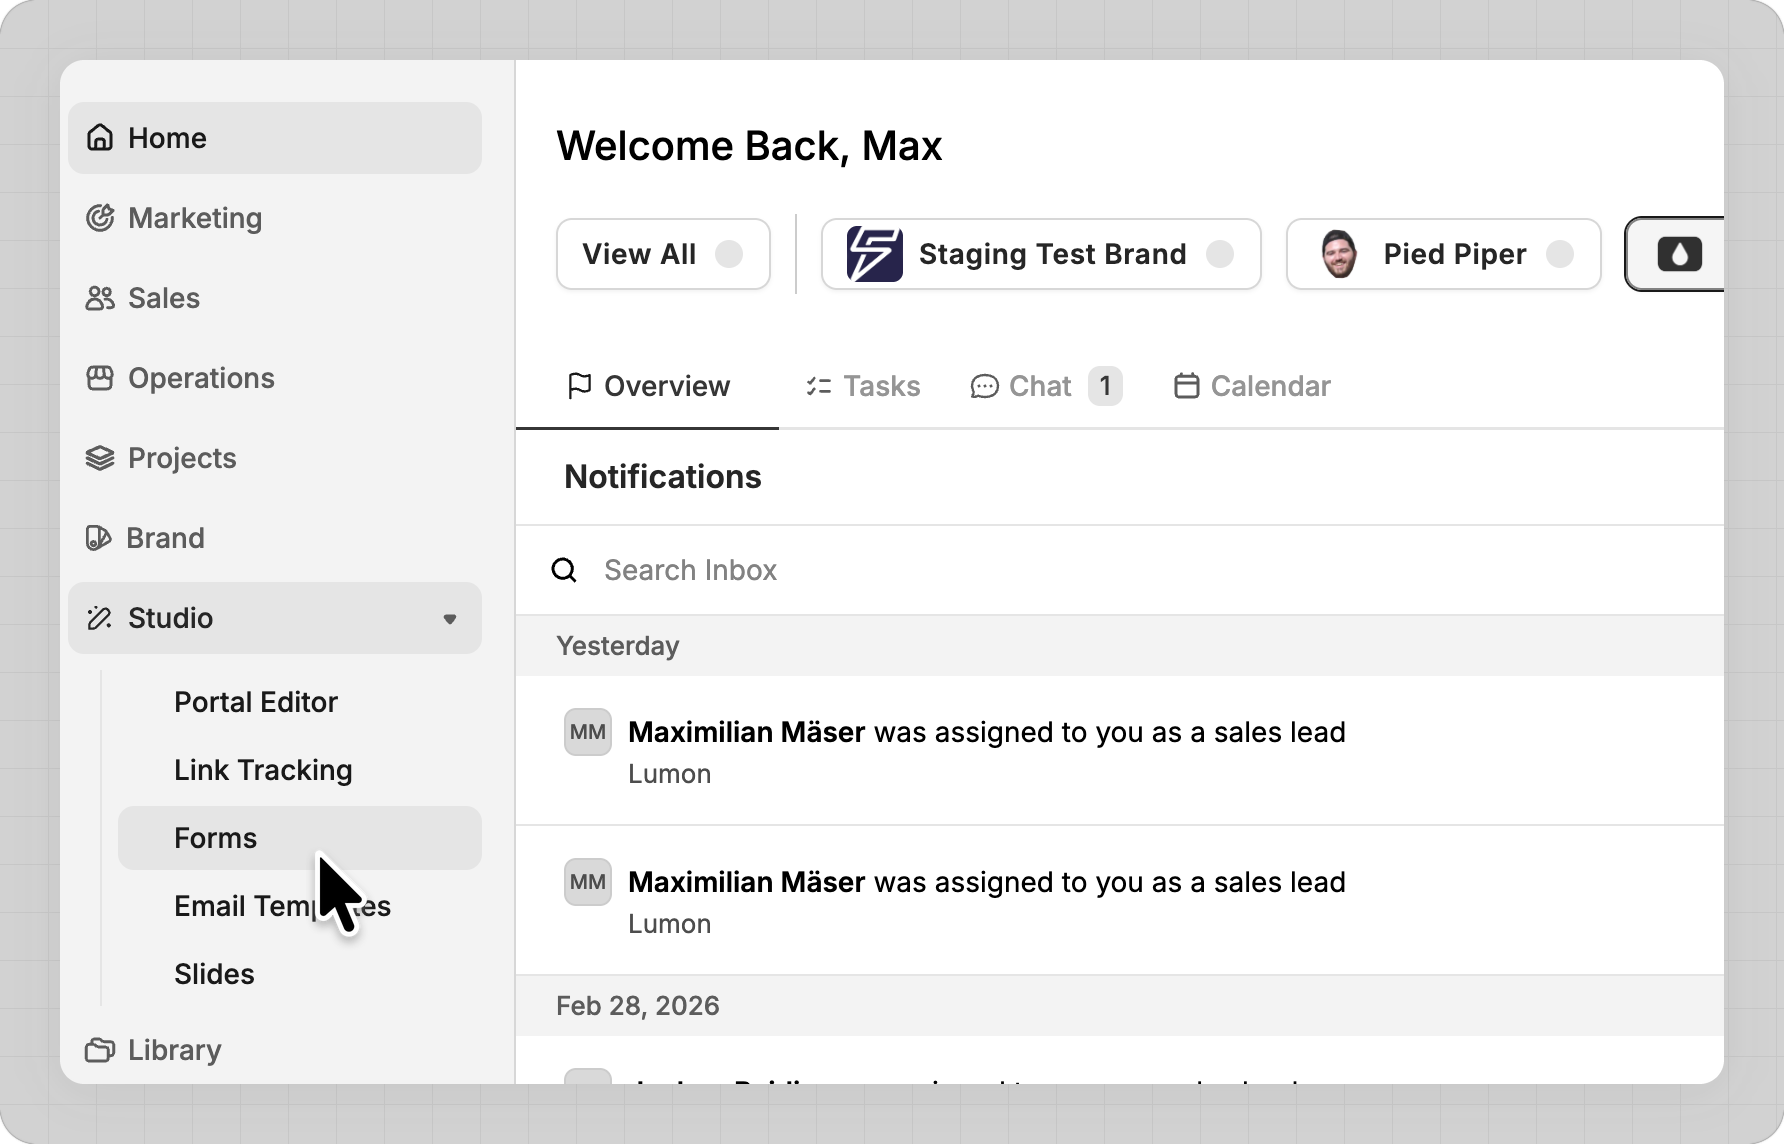
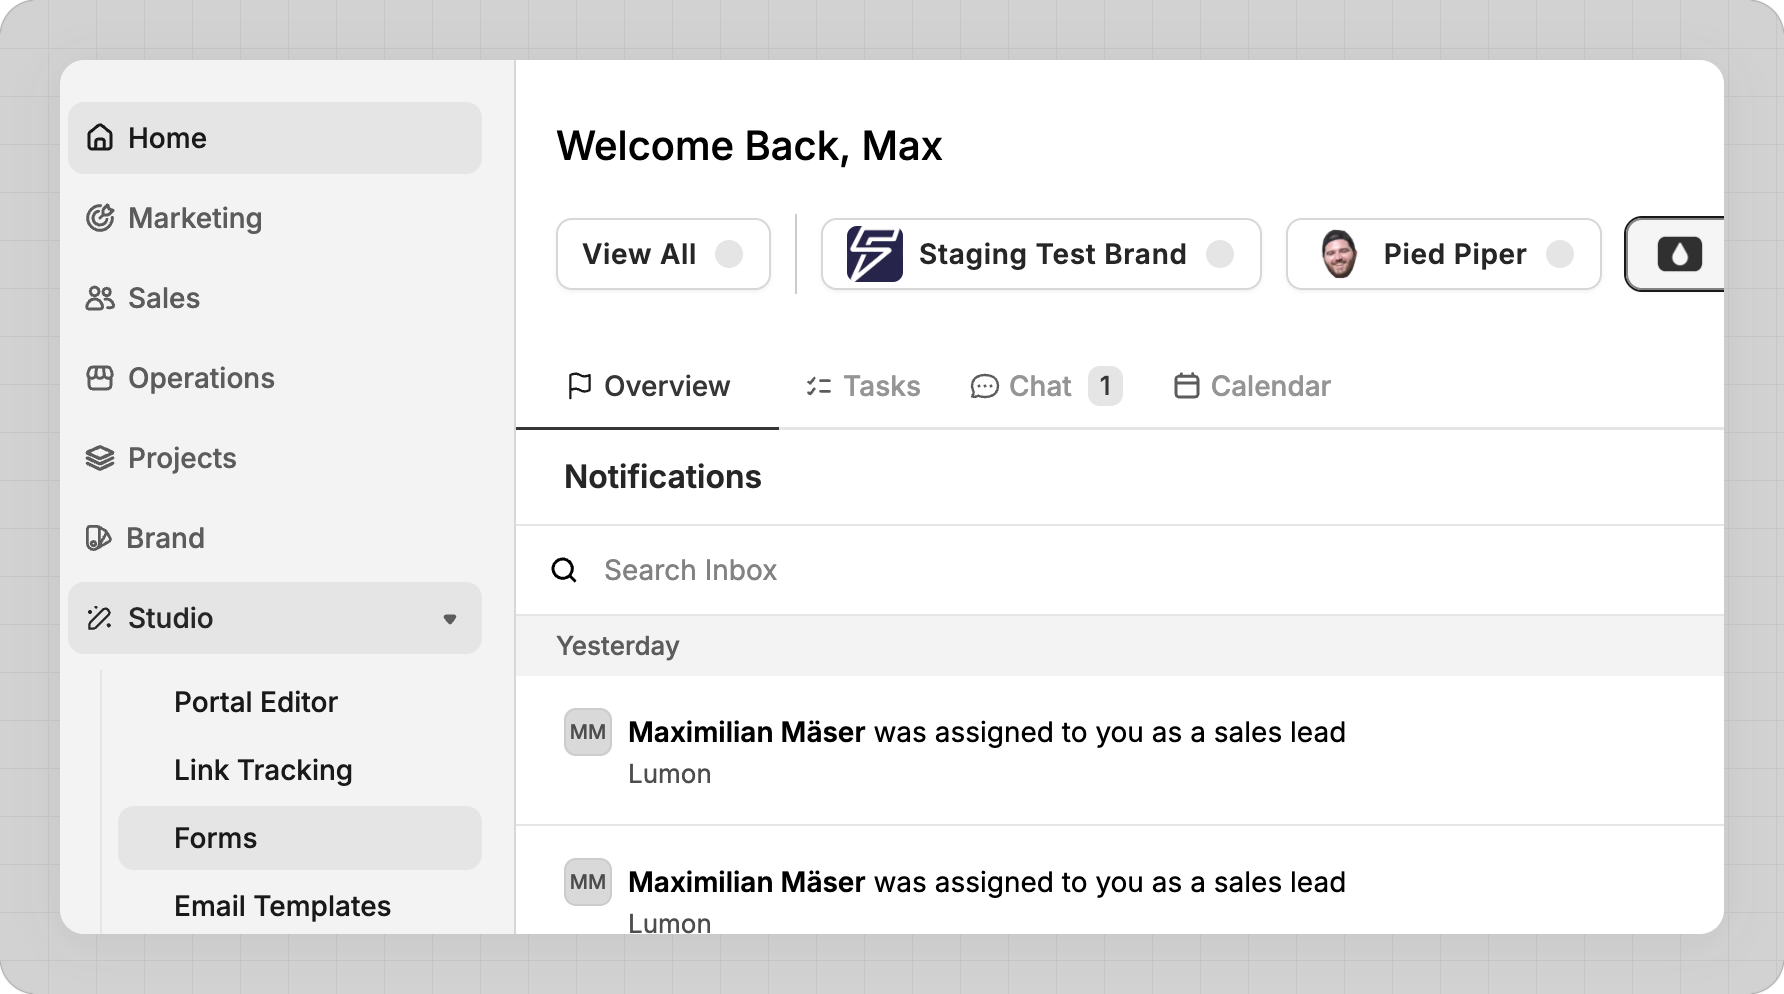
Sync all height-enforced images and new article exports
- All images resized to under 1000px tall
- New exports: Auto and Manual v5, Assign Leads v2, Build a Form v2, Edit Portal v2
- Updated image refs to 2026-03-15 recaptures where applicable

diff --git a/how-to-edit-your-portal/How to Edit Your Portal v2.md b/how-to-edit-your-portal/How to Edit Your Portal v2.md
@@ -1,0 +1,65 @@
+The portal editor lets you build and customize the applicant-facing experience - the pages and steps your leads see after signing up. You control the layout, content, and visual design from a single editor.
+
+### Opening the Portal Editor
+
+Navigate to **Portals → Editor** from the sidebar. The editor opens in a full-screen view with three tabs at the top: **Edit**, **Theme**, and **Style**.
+
+![Studio sidebar with Portals Editor selected](https://raw.githubusercontent.com/maxmaeser/helpdesk-screenshots/master/how-to-edit-your-portal/portal-nav-sidebar-2026-03-13.png)
+### Working with Sections and Steps
+
+Your portal is organized into **sections** (collapsible groups) containing **steps** (individual actions an applicant completes). Each step has a type that determines what the applicant does.
+
+![Portal editor full view with sections and steps](https://raw.githubusercontent.com/maxmaeser/helpdesk-screenshots/master/how-to-edit-your-portal/portal-editor-overview-2026-03-13.png)
+**Available step types:**
+
+- **Video**: Embed a video for the applicant to watch
+- **Form**: Present a form to collect information
+- **Slides**: Display a slide deck or presentation
+- **Call**: Schedule a call through the booking system
+- **Sign**: Send a document for electronic signature
+- **Visit Link**: Direct the applicant to an external URL
+- **Upload**: Request a file upload from the applicant
+
+To add a step, click **Add Step** at the bottom of a section. Select the step type, fill in the title and description, then configure the action-specific fields.
+
+![Add Step panel with step type dropdown](https://raw.githubusercontent.com/maxmaeser/helpdesk-screenshots/master/how-to-edit-your-portal/portal-add-step-2026-03-15.png)
+### Reordering Steps
+
+Drag and drop steps to reorder them within a section. You can also drag steps between sections to move them to a different group.
+
+### Hiding Steps from Applicants
+
+Each step has a **Hide For Applicants** toggle in its visibility settings. Turn this on to keep a step hidden while you work on it. The step remains in the editor but does not appear on the live portal.
+
+![Step settings panel with Hide For Applicants toggle](https://raw.githubusercontent.com/maxmaeser/helpdesk-screenshots/master/how-to-edit-your-portal/portal-hide-toggle-2026-03-13.png)
+### Customizing Typography
+
+Switch to the **Theme** tab to adjust text styling. You can configure the font family and size for four text levels:
+
+- **Heading 1**: Primary headings
+- **Heading 2**: Secondary headings
+- **Heading 3**: Tertiary headings
+- **Body**: Standard paragraph text
+
+Each level offers three size options (Small, Medium, Large) and a selection of font families including Inter, Roboto, Open Sans, Lato, Montserrat, Poppins, Playfair Display, and Raleway. Heading levels can also inherit the body font.
+
+![Typography settings with font size and family for each heading level](https://raw.githubusercontent.com/maxmaeser/helpdesk-screenshots/master/how-to-edit-your-portal/portal-theme-typography-2026-03-13.png)
+### Choosing Theme Colors
+
+Below the typography settings, select a **Base Theme Color** and a **Secondary Theme Color** from 10 presets: Default, Blue, Burgundy, Cyan, Gold, Green, Orange, Purple, Red, and Yellow. The secondary color controls accents like buttons, icons, and avatars.
+
+![Base Theme Color presets with 10 color options](https://raw.githubusercontent.com/maxmaeser/helpdesk-screenshots/master/how-to-edit-your-portal/portal-theme-colors-2026-03-13.png)
+### Adding Custom CSS
+
+Switch to the **Style** tab to open the CSS editor. Write custom CSS using data-attribute selectors to target specific portal elements such as headers, stage cards, and step cards. A CSS selector reference is displayed below the editor for quick lookup.
+
+![Custom Styles CSS editor with selector reference](https://raw.githubusercontent.com/maxmaeser/helpdesk-screenshots/master/how-to-edit-your-portal/portal-style-css-2026-03-13.png)
+### Editing the Signup Page
+
+Navigate to **Portals → Signup Builder** to customize the page where new applicants create their account. The builder has three sections:
+
+- **Page Style**: Choose a layout (Left Aligned, Right Aligned, or Center Aligned), upload a background image, set a title and subtitle, and adjust logo sizing
+- **Form Fields**: Select an existing form to display additional fields during signup, beyond the required First Name, Last Name, Email, and Phone
+- **Custom CSS**: Add custom styles to the signup and login pages using data-attribute selectors
+
+Click **Publish** to save your signup page changes. Use **View Live Portal** to preview the result.

diff --git a/how-to-build-a-form/How to Build a Form v2.md b/how-to-build-a-form/How to Build a Form v2.md
@@ -1,0 +1,61 @@
+Forms let you collect structured information from applicants at different stages of their journey. You can add forms to portal steps or attach them to the signup page to gather data before an applicant even enters the portal.
+
+### Creating a Form
+
+Navigate to **Portals → Control** and select the **Forms** tab.
+
+![Studio sidebar with Forms tab selected](https://raw.githubusercontent.com/maxmaeser/helpdesk-screenshots/master/how-to-build-a-form/form-nav-sidebar-2026-03-13.png)
+Create a new form to open the form builder.
+
+![Forms list with Actions dropdown](https://raw.githubusercontent.com/maxmaeser/helpdesk-screenshots/master/how-to-build-a-form/form-table-2026-03-13.png)
+The builder has three panels:
+
+- **Pages panel** (left): Manage and reorder your form's pages
+- **Editor** (center): Build out each page with fields
+- **Fields Library** (right): Browse, search, and create fields
+
+![Form builder three-panel layout](https://raw.githubusercontent.com/maxmaeser/helpdesk-screenshots/master/how-to-build-a-form/form-builder-overview-2026-03-13.png)
+### Adding Pages
+
+Click the **+** button in the pages panel to add a new page. Each page has its own title and subtitle that you can edit directly in the center panel. Drag pages in the left panel to reorder them. To delete a page, open its menu and select **Delete Page**.
+
+![Pages panel with add button](https://raw.githubusercontent.com/maxmaeser/helpdesk-screenshots/master/how-to-build-a-form/form-pages-panel-2026-03-13.png)
+### Working with Fields
+
+Fields live in the **Fields Library** on the right. To add a field to a page, drag it from the library and drop it onto the page editor. You can also reorder fields within a page by dragging them.
+
+The library has three filter tabs: **All Fields**, **In Use** (currently placed on a page), and **Not In Use** (available but unassigned). Use the search bar to find fields by name.
+
+![Fields library with filter tabs and search](https://raw.githubusercontent.com/maxmaeser/helpdesk-screenshots/master/how-to-build-a-form/form-fields-library-2026-03-15.png)
+### Creating a New Field
+
+Click **Create New Field** at the bottom of the fields library. Each field has two name properties:
+
+- **Field Name**: An internal label for your team. This is how the field appears in the dashboard and library.
+- **Field Question**: The text displayed to the applicant. Write this as a clear, answerable prompt.
+
+![Create New Field dialog](https://raw.githubusercontent.com/maxmaeser/helpdesk-screenshots/master/how-to-build-a-form/form-create-field-2026-03-13.png)
+You also configure the **Question Field Type** (text, single select, multi-select, dropdown, date, boolean, and others), set whether the field is **Required**, and optionally add a description and placeholder text.
+
+![Question Field Type dropdown showing available types](https://raw.githubusercontent.com/maxmaeser/helpdesk-screenshots/master/how-to-build-a-form/form-field-types-2026-03-13.png)
+For select-type fields, add at least two options. Drag options to reorder them.
+
+### Field Categories
+
+Assign a **Field Category** to control where the submitted data appears on your sales lead panels in the dashboard. You can create new categories directly from the field editor by clicking **Add Category** and entering a name.
+
+![Field Category dropdown with category options](https://raw.githubusercontent.com/maxmaeser/helpdesk-screenshots/master/how-to-build-a-form/form-field-category-2026-03-13.png)
+### Removing vs. Deleting a Field
+
+There are two ways to take a field off a page:
+
+- **Remove From Page**: Unlinks the field from the current page. The field stays in your library and can be placed again later.
+- **Delete Field** (from the library menu): Permanently removes the field from your entire form. This cannot be undone.
+
+![Field context menu showing Edit Field and Remove From Page](https://raw.githubusercontent.com/maxmaeser/helpdesk-screenshots/master/how-to-build-a-form/form-field-menu-2026-03-13.png)
+### Using Forms in the Portal
+
+Forms can appear in two places:
+
+1. **As a portal step**: In the portal editor, add a step with the **Form** type and select the form you want to use.
+2. **On the signup page**: In the signup builder under **Form Fields**, select a form to display additional fields when applicants first create their account.

diff --git a/auto-and-manual-assignment/Auto and Manual Lead Assignment v5.md b/auto-and-manual-assignment/Auto and Manual Lead Assignment v5.md
@@ -1,0 +1,34 @@
+Lead assignment determines which sales rep is responsible for each incoming lead. Franchise Systems Ai (FS Ai) supports two approaches: automatic round-robin distribution and manual assignment.
+
+### Configuring Your Assignability
+
+You control your own assignability settings from your profile.
+
+1. Click your profile picture at the bottom of the sidebar and select **Settings**.
+
+![Sidebar profile menu with Settings highlighted](https://raw.githubusercontent.com/maxmaeser/helpdesk-screenshots/master/auto-and-manual-assignment/assignment-nav-settings-v2.png)
+2. On the **Profile** page, scroll to the **Assignable To Applicant Portal Leads** section.
+
+![Profile settings page showing Assignability section with radio buttons](https://raw.githubusercontent.com/maxmaeser/helpdesk-screenshots/master/auto-and-manual-assignment/assignment-profile-settings-v2.png)
+For each brand you have access to, you see three radio buttons:
+
+- **Automatic**: new leads from the applicant portal are automatically assigned to you via round-robin. You can also be manually assigned to leads.
+- **Manual**: you can be manually assigned to leads by other team members, but you will not receive automatic assignments.
+- **Not Assignable**: you will not be assigned to any leads for this brand. You will not appear in the assignment dropdown.
+
+Select the option that matches your role. Only one option can be active per brand.
+
+### How Auto-Assignment Works
+
+When a new lead signs up through your portal, the platform can automatically assign them to a sales rep using round-robin logic. The system cycles through all agents whose assignability is set to **Automatic** for that brand, distributing leads evenly.
+
+Auto-assignment only triggers when a new lead is created through the portal signup flow. Imported leads and manually created leads are not auto-assigned.
+
+### How Manual Assignment Works
+
+You can manually assign any lead to a specific sales rep from the leads table.
+
+![Sales Pipeline navigation to Leads tab](https://raw.githubusercontent.com/maxmaeser/helpdesk-screenshots/master/auto-and-manual-assignment/assignment-nav-leads-v2.png)
+The **Assigned To** column displays a dropdown of all agents whose assignability is set to **Automatic** or **Manual** for the brand. Select an agent from the list to assign or reassign the lead.
+
+![Assigned To dropdown open showing available agents](https://raw.githubusercontent.com/maxmaeser/helpdesk-screenshots/master/auto-and-manual-assignment/assignment-manual-dropdown-2026-03-15.png)

diff --git a/how-to-assign-leads/How to Assign Leads v2.md b/how-to-assign-leads/How to Assign Leads v2.md
@@ -1,0 +1,33 @@
+You can assign or reassign a lead to any agent whose assignability is set to **Automatic** or **Manual** for your brand. This is done directly from the leads table.
+
+> Only agents whose assignability is set to **Automatic** or **Manual** appear in the assignment dropdown. If you do not see a team member listed, ask them to update their assignability on the **Profile** page in their settings, under **Assignable To Applicant Portal Leads**.
+
+### Assigning a Lead to a Sales Rep
+
+1. Navigate to **Sales → Pipeline** and select the **Leads** tab.
+2. Find the lead you want to assign in the leads table.
+3. Locate the **Assigned To** column for that lead.
+4. Click the column cell to open the agent dropdown.
+5. Select the sales rep you want to assign the lead to.
+
+![Sales Pipeline leads table showing the Name and Assigned To columns](https://raw.githubusercontent.com/maxmaeser/helpdesk-screenshots/master/how-to-assign-leads/assign-leads-table.png)
+The assignment takes effect immediately. The selected agent receives a notification that a lead has been assigned to them.
+
+### Reassigning a Lead
+
+To reassign a lead to a different rep, follow the same steps above. Click the **Assigned To** column for the lead and select a different agent from the dropdown.
+
+![Clicking the Assigned To column to open the agent assignment dropdown](https://raw.githubusercontent.com/maxmaeser/helpdesk-screenshots/master/auto-and-manual-assignment/assignment-manual-dropdown-2026-03-15.png)
+### Unassigned Leads
+
+Leads that have not been assigned to any rep display **Unassigned** in the Assigned To column. This can happen when:
+
+- A lead was imported without triggering auto-assignment
+- No agents had their assignability set to **Automatic** when the lead was created
+- The previously assigned agent has been removed from the team
+
+### Bulk Assignment
+
+To reassign multiple leads at once, select the leads you want to update using the checkboxes in the leads table, then use the bulk actions toolbar to assign them to a specific rep.
+
+![Three leads selected with the Assign To Agent panel open showing available agents](https://raw.githubusercontent.com/maxmaeser/helpdesk-screenshots/master/how-to-assign-leads/assign-leads-bulk.png)
